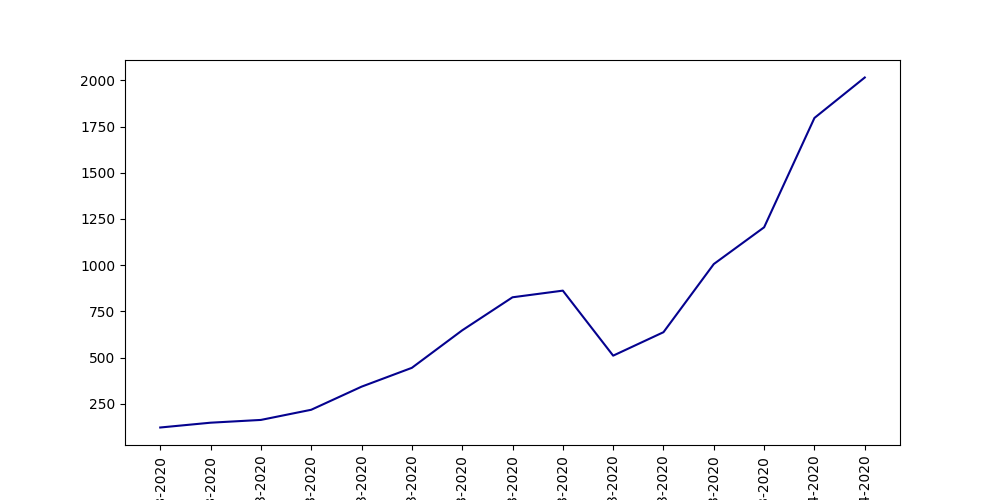
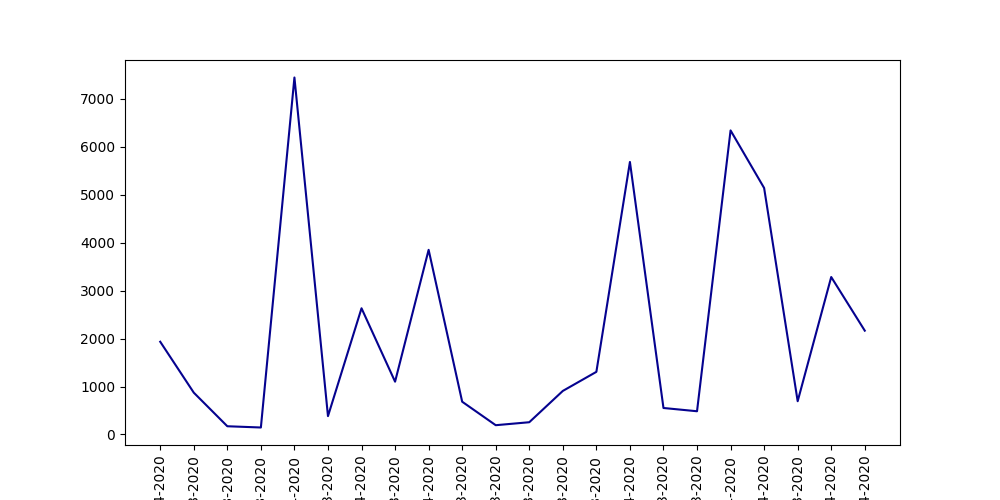
Create bug

diff --git a/COVID-19-Tracker/plot_graph.py b/COVID-19-Tracker/plot_graph.py
@@ -33,21 +33,18 @@ def bar_chart():
         create_csv(current_data())
 
     df = pd.read_csv(file_path)
+    df = df[['label', 'state', 'confirmed', 'cured', 'death']]
     print(file_path)
     print(df)
     states = df['state'].tolist()
     del states[-1]
     n_groups = len(states)      # Number of groups
     states = tuple(states)
-
-    cnf_in =df['indian_confirmed'].tolist()         # Confirmed Indian cases 
-    cnf_fn = df['foreign_confirmed'].tolist()        # Confirmed Foreigners
+    
+    confirmed = df['confirmed'].tolist()
     cured = df['cured'].tolist()
     death = df['death'].tolist()
-    
-    print("death")
-    print(death)
-    del cnf_in[-1], cnf_fn[-1], cured[-1], death[-1]
+    del confirmed[-1], cured[-1], death[-1]
 
     # Creating Plot
     fig, ax = plt.subplots()
@@ -55,18 +52,11 @@ def bar_chart():
     index = np.arange(n_groups)
     bar_width = 0.5
     opacity = 0.8
-    leg_1 = plt.bar(index, cnf_in, bar_width,
+    leg_1 = plt.bar(index, confirmed, bar_width,
             alpha=opacity,
             color='#05028f',
-            label='Indian Confirmed',
+            label='Confirmed',
             yerr = None)
-
-    leg_2 = plt.bar(index, cnf_fn, bar_width,
-            alpha=opacity,
-            color='#6aafdb',
-            label='Foreign Confirmed',
-            yerr=None
-            )
 
     leg_3 = plt.bar(index, cured, bar_width,
             alpha=opacity,
@@ -96,8 +86,7 @@ def spread_chart():
     data = list(reversed(data_lst))
     x_labels = []
 
-    cnf_in_lst = []
-    cnf_fn_lst = []
+    confirmed_lst = []
     cured_lst = []
     death_lst = []
 
@@ -105,29 +94,22 @@ def spread_chart():
     regex = re.compile(r"\d\d[-]\d\d[-]\d\d\d\d")
     for day in data:
         label = regex.search(day)
-        print("Day: " +  day)
         df = pd.read_csv(day)
+        print(day)
+        print(df.head())
         df.drop(df.tail(1).index,inplace=True) # drop last n rows
-        print(df)
-        print(df['indian_confirmed'])
         x_labels.append(label.group())
-        cnf_in = df['indian_confirmed'].tolist()         # Confirmed Indian cases 
-        cnf_fn = df['foreign_confirmed'].tolist()      # Confirmed Foreigners
+        confirmed = df['confirmed'].tolist()
         cured = df['cured'].tolist()
         death = df['death'].tolist()
-        print("deaths: ")
-        print(death)
-        cnf_in = [x for x in cnf_in if x == x]
-        print(cnf_in)
-        cnf_in = list(map(int, cnf_in))
-        cnf_in_lst.append(sum(cnf_in))
-        cnf_fn_lst.append(sum(cnf_fn))
+        confirmed = [x for x in confirmed if x == x]
+
+        confirmed_lst.append(sum(confirmed))
         cured_lst.append(sum(cured))
         death_lst.append(sum(death))
 
     # Plotting categorically
-    linePlot(x_labels, cnf_in_lst, '#05028f', 0)
-    linePlot(x_labels, cnf_fn_lst, '#6aafdb', 1)
+    linePlot(x_labels, confirmed_lst, '#05028f', 0)
     linePlot(x_labels, cured_lst,'#00c20f', 2)
     linePlot(x_labels, death_lst, '#ff3f0f', 3)
     #plt.legend()

diff --git a/COVID-19-Tracker/fix_data.py b/COVID-19-Tracker/fix_data.py
@@ -1,0 +1,16 @@
+#!/usr/bin/python3.6
+import pandas as pd
+import csv
+import os
+
+path='data'
+files = os.listdir(path)
+print(files)
+def format_data(csv_file):
+    df = pd.read_csv(csv_file)
+    df = df[['label', 'state', 'confirmed', 'cured', 'death']]
+    print(df.head())
+    df.to_csv(csv_file, index=False)
+
+for f in files:
+    format_data(os.path.join(path, f))

diff --git a/COVID-19-Tracker/get_data.py b/COVID-19-Tracker/get_data.py
@@ -62,7 +62,7 @@ def create_csv(data):
     # Write headers
     with open(file_name, 'w') as f:
         w = csv.writer(f)
-        header = ['label', 'state', 'indian_confirmed', 'foreign_confirmed', 'cured', 'death']
+        header = ['label', 'state', 'confirmed', 'cured', 'death']
         w.writerow(header)
 
         for row in data:
